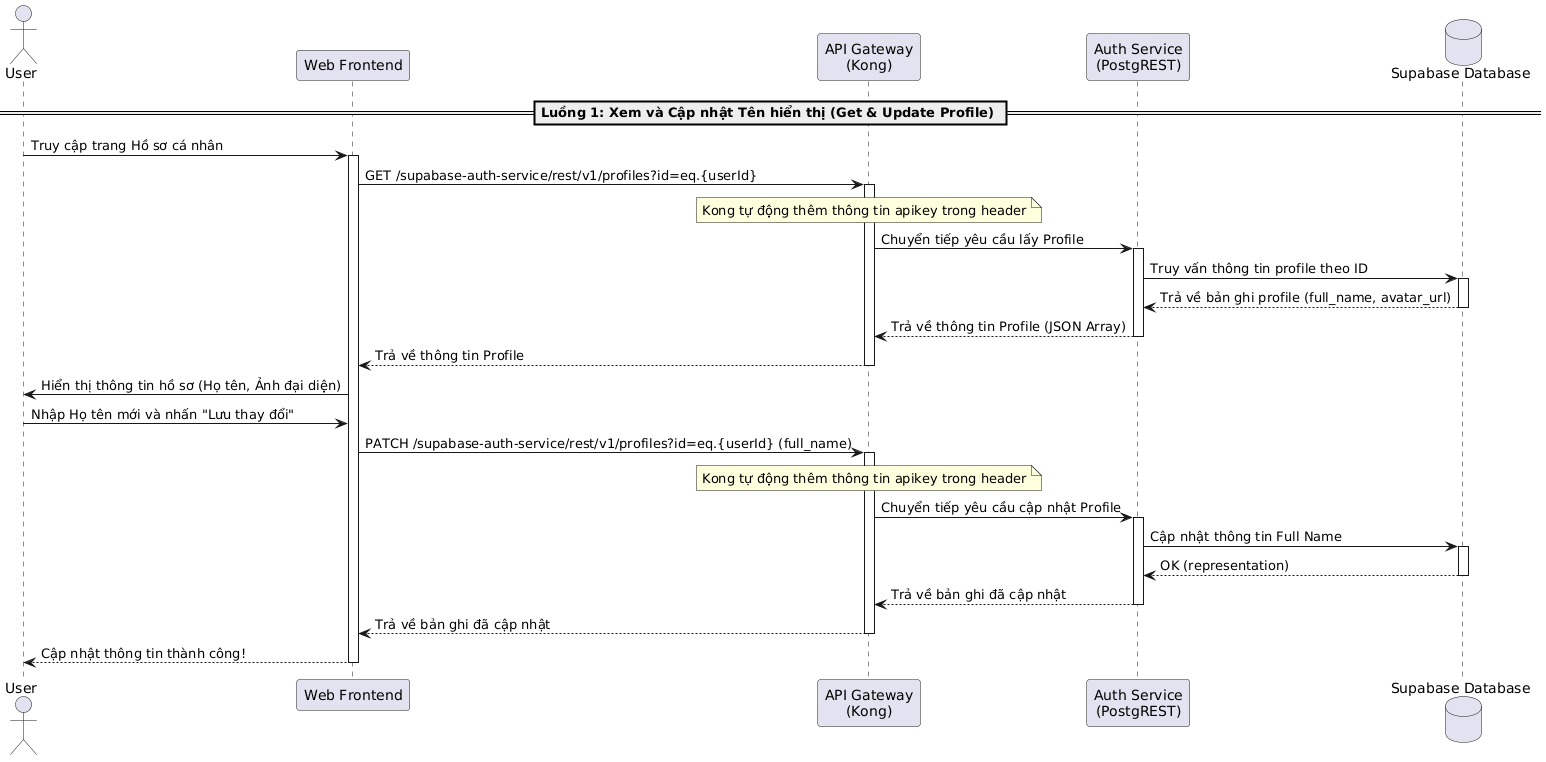
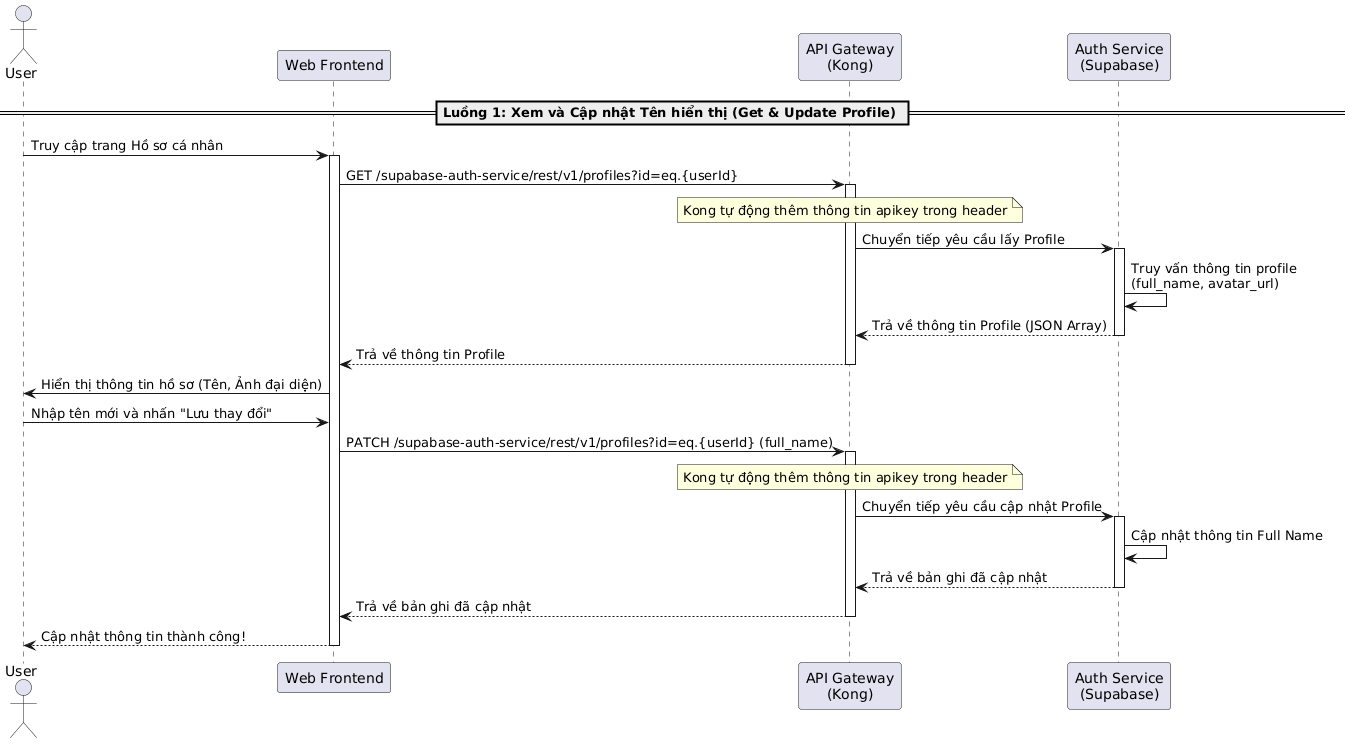
x

diff --git a/latex/contents/Sequence/UML-Sequence-UserProfileUploadAvatar.tex b/latex/contents/Sequence/UML-Sequence-UserProfileUploadAvatar.tex
@@ -1,8 +1,11 @@
 \paragraph{Sơ đồ tuần tự luồng Tải lên và Cập nhật Ảnh đại diện (Upload Avatar)}
 
 Luồng nghiệp vụ này mô tả
-
-quy trình người dùng tải ảnh đại diện lên bộ lưu trữ của Supabase và cập nhật lại đường dẫn hình ảnh trong hồ sơ của mình.
+quy trình người dùng
+tải ảnh đại diện lên bộ lưu trữ
+của Supabase và
+cập nhật lại đường dẫn hình ảnh
+trong hồ sơ của mình.
 
 \begin{figure}[H]
 \centering
@@ -21,15 +24,13 @@ quy trình người dùng tải ảnh đại diện lên bộ lưu trữ của S
 User & Actor & Người dùng thực hiện chọn ảnh và lưu ảnh đại diện mới. \\ \hline
 Web Frontend & Component & Giao diện web Next.js. \\ \hline %%%% Component & Giao diện Next.js sinh tên tệp tin ngẫu nhiên, thực hiện tải ảnh và cập nhật địa chỉ ảnh mới vào hồ sơ. \\ \hline
 API Gateway (Kong) & Component & Cổng API chuyển tiếp các yêu cầu API. \\ \hline %%%% Component & Định tuyến các yêu cầu liên quan tới Storage và PostgREST. \\ \hline
-Supabase Storage & Microservice & Dịch vụ quản lý lưu trữ tập tin vật lý của Supabase. \\ \hline
-Auth Service (PostgREST) & Component & Cập nhật lại thuộc tính \texttt{avatar\_url} của bản ghi người dùng. \\ \hline
-Supabase Database & Database & Lưu trữ thông tin thay đổi. \\ \hline
+Supabase Backend (Storage, DB, Auth) & Component & Dịch vụ backend tích hợp của Supabase quản lý lưu trữ tệp tin (Storage), cơ sở dữ liệu (Database) và xác thực/truy vấn (Auth). \\ \hline
 \end{tabular}
 \caption{Các thành phần tham gia luồng Tải lên và Cập nhật Ảnh đại diện}
 \end{table}
 
 \subparagraph{Mô tả tổng quan}
 \begin{itemize}
-\item Người dùng tải tệp ảnh lên. Frontend sinh tên tệp tin độc nhất (\texttt{userId\_random.ext}) rồi gửi trực tiếp tệp tin nhị phân qua Gateway đến \texttt{Supabase Storage} (bucket \texttt{avatars}).
-\item Sau khi upload thành công, Frontend khởi tạo đường dẫn ảnh công khai (\texttt{avatar\_url}) và thực hiện gửi yêu cầu \texttt{PATCH /profiles?id=eq.\{userId\}} qua Gateway để cập nhật thông tin ảnh đại diện của người dùng trong Supabase Database.
+\item Người dùng tải tệp ảnh lên. Frontend sinh tên tệp tin (\texttt{userId\_random.ext}) rồi gửi tệp tin qua Gateway đến \texttt{Supabase Backend} để lưu trữ trong bucket \texttt{avatars} qua đường dẫn \texttt{/avatars/\{fileName\}}.
+\item Sau khi tải lên thành công, Frontend khởi tạo đường dẫn ảnh công khai (\texttt{avatar\_url}) và thực hiện gửi yêu cầu \texttt{PATCH /profiles?id=eq.\{userId\}} qua Gateway để cập nhật thông tin ảnh đại diện của người dùng trong bảng \texttt{profiles} của Supabase Backend.
 \end{itemize}

diff --git a/latex/contents/Sequence/UML-Sequence-UserProfileUpdateDisplayName.tex b/latex/contents/Sequence/UML-Sequence-UserProfileUpdateDisplayName.tex
@@ -1,12 +1,13 @@
 \paragraph{Sơ đồ tuần tự luồng Xem và Cập nhật Tên hiển thị (Get \& Update Profile)}
 
 Luồng nghiệp vụ này mô tả
-
-quy trình người dùng tải thông tin cá nhân và cập nhật họ tên hiển thị thông qua PostgREST của Supabase.
+quy trình người dùng
+tải thông tin cá nhân
+và cập nhật tên hiển thị thông qua Auth Service (Supabase).
 
 \begin{figure}[H]
 \centering
-\includegraphics[scale = 0.18]{contents/Sequence/UML-Sequence-UserProfileUpdateDisplayName.png}
+\includegraphics[scale = 0.2]{contents/Sequence/UML-Sequence-UserProfileUpdateDisplayName.png}
 \caption{Sơ đồ tuần tự luồng Xem và Cập nhật Tên hiển thị}
 \end{figure}
 
@@ -15,19 +16,20 @@ quy trình người dùng tải thông tin cá nhân và cập nhật họ tên 
 \begin{table}[H]
 \centering
 \renewcommand{\arraystretch}{1.3}
+
 \begin{tabular}{|l|l|p{5cm}|}
 \hline
 \textbf{Thành phần} & \textbf{Phân loại} & \textbf{Vai trò trong hệ thống} \\ \hline
 User & Actor & Người dùng xem và thay đổi thông tin cá nhân. \\ \hline
 Web Frontend & Component & Giao diện web Next.js. \\ \hline %%%% Component & Giao diện Next.js hiển thị và tiếp nhận thông tin cập nhật từ người dùng. \\ \hline
 API Gateway (Kong) & Component & Cổng API chuyển tiếp các yêu cầu API. \\ \hline %%%% Component & Định tuyến yêu cầu REST API tới PostgREST. \\ \hline
-Auth Service (PostgREST) & Component & Dịch vụ truy vấn và cập nhật dữ liệu trực tiếp trong Supabase Database. \\ \hline
-Supabase Database & Database & Cơ sở dữ liệu Postgres lưu bảng \texttt{profiles}. \\ \hline
+Auth Service (Supabase) & Component & Dịch vụ thực hiện xác thực, truy vấn và cập nhật thông tin hồ sơ trong cơ sở dữ liệu. \\ \hline
 \end{tabular}
 \caption{Các thành phần tham gia luồng Xem và Cập nhật Tên hiển thị}
 \end{table}
 
 \subparagraph{Mô tả tổng quan}
+
 \begin{itemize}
 \item Người dùng truy cập trang Hồ sơ. Frontend gửi yêu cầu \texttt{GET /profiles?id=eq.\{userId\}} qua Gateway để lấy thông tin hiển thị.
 \item Người dùng sửa tên hiển thị và nhấn Lưu. Frontend thực hiện cuộc gọi API \texttt{PATCH /profiles?id=eq.\{userId\}} kèm tham số \texttt{full\_name} để thực hiện cập nhật.

diff --git a/latex/contents/Sequence/UML-Sequence-UserBookmarkChat.tex b/latex/contents/Sequence/UML-Sequence-UserBookmarkChat.tex
@@ -30,7 +30,7 @@ Conversation Database & Database & Lưu trữ các thư mục bookmark (Bookmark
 \subparagraph{Mô tả tổng quan}
 \begin{itemize}
 \item Khi người dùng nhấn nút "Bookmark" trên giao diện, Web Frontend gửi yêu cầu \texttt{GET /bookmarks} để lấy danh sách thư mục hiện có của người dùng và hiển thị lên giao diện.
-\item Nếu người dùng muốn tạo thư mục mới, họ nhập tên thư mục và Frontend gửi yêu cầu \texttt{POST /bookmarks} với dữ liệu \texttt{folderName}. Hệ thống sẽ tạo thư mục mới trong Conversation Database và cập nhật lại danh sách trên màn hình.
+\item Nếu người dùng muốn tạo thư mục mới, người dùng nhập tên thư mục và Frontend gửi yêu cầu \texttt{POST /bookmarks} với dữ liệu \texttt{folderName}. Hệ thống sẽ tạo thư mục mới trong Conversation Database và cập nhật lại danh sách trên màn hình.
 \item Người dùng chọn thư mục mục tiêu, điền ghi chú cá nhân và nhấn nút "Lưu". Frontend gửi yêu cầu \texttt{PUT /bookmarks/:folderId/item} kèm theo tham số \texttt{chatId} và \texttt{note}.
 \item Conversation Service kiểm tra sự tồn tại của cuộc trò chuyện và thực hiện lưu trữ hoặc cập nhật bản ghi Bookmark vào Conversation Database, sau đó trả về phản hồi thành công để cập nhật giao diện của người dùng.
 \end{itemize}
